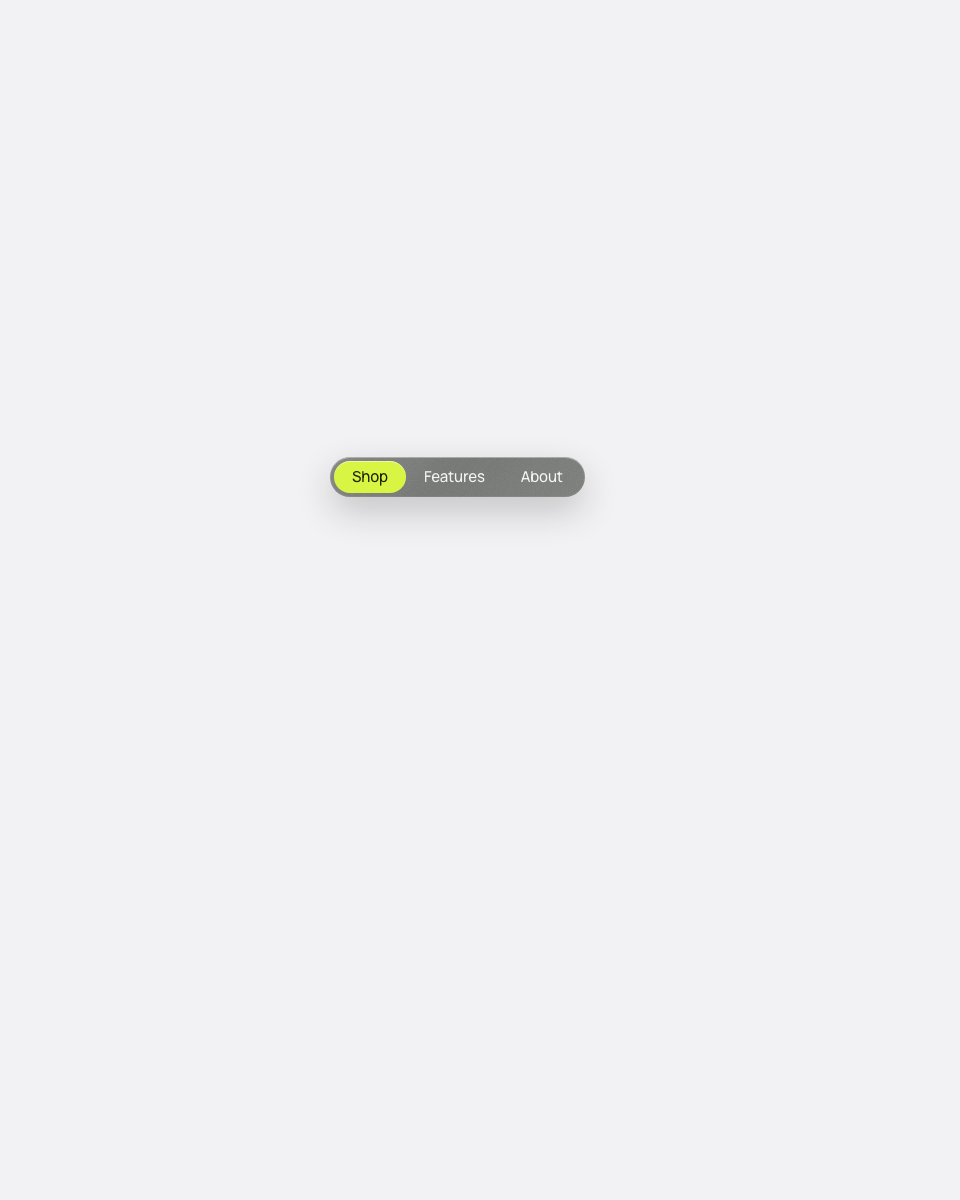
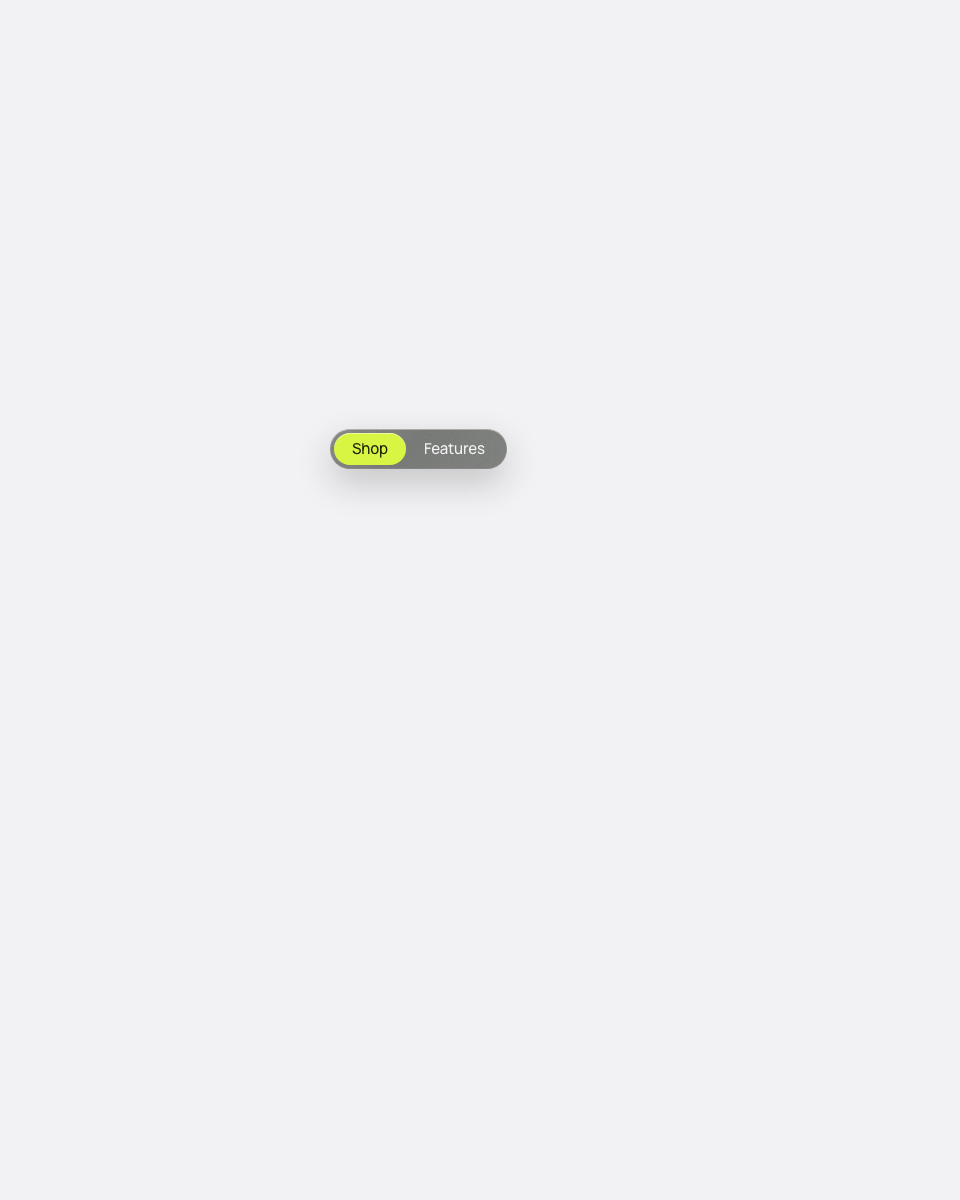
feat: Glass Tab Menu — a media card under Features, a sliding row-hover pill, About dropped

Changed region(s): [[0.3438, 0.3392, 0.625, 0.4317]]

diff --git a/components/navigation/glass-tab-menu/glass-tab-menu.tsx b/components/navigation/glass-tab-menu/glass-tab-menu.tsx
@@ -13,18 +13,25 @@ function cn(...inputs: ClassValue[]) {
 
 export type GlassTabMenuProps = {
   /** Which tab wears the pill at first. Default "shop". */
-  defaultTab?: "shop" | "features" | "about";
-  /** Walk the tabs on their own, panel open, until someone clicks (the gallery card sets it). */
+  defaultTab?: "shop" | "features";
+  /** A photo for the Features card. Without one, a dark glossy placeholder is drawn. */
+  featureImage?: string;
+  /** Alt text for that photo. */
+  featureAlt?: string;
+  /** Walk the tabs on their own, panel open, until someone takes over (the gallery card sets it). */
   loop?: boolean;
   className?: string;
 };
 
-type Tab = { id: "shop" | "features" | "about"; label: string; eyebrow: string; items: string[] };
+type TabId = "shop" | "features";
+
+type Tab =
+  | { id: TabId; label: string; eyebrow: string; kind: "list"; items: string[] }
+  | { id: TabId; label: string; eyebrow: string; kind: "media" };
 
 const TABS: Tab[] = [
-  { id: "shop", label: "Shop", eyebrow: "By Activity", items: ["Lifestyle", "Commute", "Active", "Walking", "Everyday"] },
-  { id: "features", label: "Features", eyebrow: "Why it works", items: ["Waterproof", "Breathable", "Featherlight", "Grip", "Warmth"] },
-  { id: "about", label: "About", eyebrow: "The studio", items: ["Story", "Materials", "Journal", "Stockists", "Contact"] },
+  { id: "shop", label: "Shop", eyebrow: "By Activity", kind: "list", items: ["Lifestyle", "Commute", "Active", "Walking", "Everyday"] },
+  { id: "features", label: "Features", eyebrow: "100% Waterproof", kind: "media" },
 ];
 
 const SKIN = {
@@ -40,7 +47,9 @@ const FONT = "var(--font-manrope, Manrope), Manrope, ui-sans-serif, system-ui, s
 
 const BAR_H = 40;
 const PANEL_W = 300;
-const PANEL_H = 236;
+const PANEL_PAD = 20;
+const PANEL_H_LIST = 236;
+const PANEL_H_MEDIA = 292;
 const PANEL_GAP = 10;
 const PANEL_RADIUS = 18;
 const ROW_H = 34;
@@ -50,6 +59,11 @@ const CLOSE_DELAY = 140;
 const LOOP_EVERY = 2600;
 
 const bell = [0.45, 0, 0.55, 1] as const;
+/** The springs the pills slide on. */
+const SLIDE = { type: "spring", stiffness: 420, damping: 34 } as const;
+const PUSH = { type: "spring", stiffness: 380, damping: 32 } as const;
+
+const panelHeight = (tab: Tab) => (tab.kind === "media" ? PANEL_H_MEDIA : PANEL_H_LIST);
 
 /**
  * Dark smoky glass. Reads as glass on a flat host too — a diagonal sheen, a
@@ -63,6 +77,12 @@ const GLASS: React.CSSProperties = {
   WebkitBackdropFilter: "blur(24px) saturate(160%)",
   boxShadow:
     "inset 0 1px 0 rgba(255,255,255,0.3), inset 0 0 0 1px rgba(255,255,255,0.07), 0 14px 36px rgba(0,0,0,0.2)",
+};
+
+/** Lighter glass laid on the dark glass: the row-hover pill and the arrow. */
+const GLASS_LIFT: React.CSSProperties = {
+  background: "rgba(255,255,255,0.14)",
+  boxShadow: "inset 0 1px 0 rgba(255,255,255,0.22)",
 };
 
 /** A fine static grain over one pane of glass. Nothing here ever animates. */
@@ -86,21 +106,120 @@ function Grain() {
   );
 }
 
-export function GlassTabMenu({ defaultTab = "shop", loop = false, className }: GlassTabMenuProps) {
+function Eyebrow({ children }: { children: React.ReactNode }) {
+  return (
+    <span className="text-[9px] font-medium tracking-[0.02em]" style={{ color: SKIN.textMuted }}>
+      {children}
+    </span>
+  );
+}
+
+type ListPanelProps = { items: string[]; uid: string; onInteract: () => void };
+
+/**
+ * The list: whichever row the pointer or focus is on gets a lighter glass
+ * pill that slides between rows, with a round arrow at its end, while the
+ * other rows dim. Hover state lives here so it resets when the panel swaps.
+ */
+function ListPanel({ items, uid, onInteract }: ListPanelProps) {
+  const [hovered, setHovered] = React.useState<string | null>(null);
+  return (
+    <ul
+      className="mt-5 flex-1 overflow-hidden"
+      onPointerLeave={() => setHovered(null)}
+      style={{
+        maskImage: "linear-gradient(to bottom, #000 50%, transparent 100%)",
+        WebkitMaskImage: "linear-gradient(to bottom, #000 50%, transparent 100%)",
+      }}
+    >
+      {items.map((item) => {
+        const isHovered = hovered === item;
+        return (
+          <li key={item} className="relative">
+            {isHovered && (
+              <motion.span
+                aria-hidden="true"
+                layoutId={`${uid}-row`}
+                initial={{ opacity: 0, scale: 0.96 }}
+                animate={{ opacity: 1, scale: 1 }}
+                transition={PUSH}
+                className="absolute -inset-x-2 inset-y-0 rounded-[10px]"
+                style={GLASS_LIFT}
+              />
+            )}
+            <button
+              type="button"
+              onPointerEnter={() => setHovered(item)}
+              onFocus={() => setHovered(item)}
+              onBlur={() => setHovered((h) => (h === item ? null : h))}
+              onClick={onInteract}
+              className="relative flex w-full items-center justify-between rounded-md text-left text-[15px] font-medium outline-none focus-visible:ring-2 focus-visible:ring-white/60"
+              style={{
+                height: ROW_H,
+                color: SKIN.text,
+                opacity: hovered === null ? 0.85 : isHovered ? 1 : 0.45,
+                transition: "opacity 220ms ease",
+              }}
+            >
+              <span>{item}</span>
+              <motion.span
+                aria-hidden="true"
+                initial={false}
+                animate={{ opacity: isHovered ? 1 : 0, x: isHovered ? 0 : -6, scale: isHovered ? 1 : 0.8 }}
+                transition={{ duration: 0.22, ease: bell }}
+                className="flex h-7 w-7 items-center justify-center rounded-full"
+                style={{ background: "rgba(255,255,255,0.18)" }}
+              >
+                <svg width={14} height={14} viewBox="0 0 14 14">
+                  <path d="M2.5 7h9M7.5 3l4 4-4 4" fill="none" stroke="#fff" strokeWidth={1.6} strokeLinecap="round" strokeLinejoin="round" />
+                </svg>
+              </motion.span>
+            </button>
+          </li>
+        );
+      })}
+    </ul>
+  );
+}
+
+type MediaPanelProps = { image?: string; alt?: string };
+
+/** The Features card: a real photo when given one, otherwise a dark, wet-looking gloss. */
+function MediaPanel({ image, alt }: MediaPanelProps) {
+  return (
+    <div
+      className="relative mt-4 flex-1 overflow-hidden rounded-[12px]"
+      style={{
+        background:
+          "radial-gradient(120% 80% at 28% 18%, rgba(255,255,255,0.2), transparent 55%), linear-gradient(200deg, transparent 62%, rgba(215,245,66,0.32) 100%), linear-gradient(160deg, #3A3D3A 0%, #151614 55%, #0D0E0C 100%)",
+        boxShadow: "inset 0 1px 0 rgba(255,255,255,0.16)",
+      }}
+    >
+      {image ? (
+        // A plain <img>: this file is meant to be copied out of Next.js.
+        // eslint-disable-next-line @next/next/no-img-element
+        <img src={image} alt={alt ?? ""} className="absolute inset-0 h-full w-full object-cover" />
+      ) : null}
+      <Grain />
+    </div>
+  );
+}
+
+export function GlassTabMenu({ defaultTab = "shop", featureImage, featureAlt, loop = false, className }: GlassTabMenuProps) {
   const uid = React.useId().replace(/[^a-zA-Z0-9_-]/g, "");
-  const [active, setActive] = React.useState<Tab["id"]>(defaultTab);
+  const [active, setActive] = React.useState<TabId>(defaultTab);
   /** Which tab's panel is showing. Hover and focus drive this; clicks drive `active`. */
-  const [open, setOpen] = React.useState<Tab["id"] | null>(loop ? defaultTab : null);
+  const [open, setOpen] = React.useState<TabId | null>(loop ? defaultTab : null);
   const [interacted, setInteracted] = React.useState(false);
   const activeRef = React.useRef(active);
   React.useEffect(() => {
     activeRef.current = active;
   }, [active]);
-  const tabRefs = React.useRef<Partial<Record<Tab["id"], HTMLButtonElement | null>>>({});
+  const tabRefs = React.useRef<Partial<Record<TabId, HTMLButtonElement | null>>>({});
   const panelRef = React.useRef<HTMLDivElement>(null);
   const closeTimer = React.useRef(0);
 
-  const show = React.useCallback((id: Tab["id"]) => {
+  const show = React.useCallback((id: TabId) => {
     window.clearTimeout(closeTimer.current);
     setOpen(id);
   }, []);
@@ -125,20 +244,22 @@ export function GlassTabMenu({ defaultTab = "shop", loop = false, className }: G
     return () => window.clearInterval(id);
   }, [loop, interacted]);
 
-  const activate = (id: Tab["id"]) => {
+  const takeOver = React.useCallback(() => setInteracted(true), []);
+
+  const activate = (id: TabId) => {
     setInteracted(true);
     setActive(id);
     show(id);
     tabRefs.current[id]?.focus();
   };
 
-  const onTabKey = (e: React.KeyboardEvent<HTMLButtonElement>, id: Tab["id"]) => {
+  const onTabKey = (e: React.KeyboardEvent<HTMLButtonElement>, id: TabId) => {
     const i = TABS.findIndex((t) => t.id === id);
     const moves: Record<string, () => void> = {
       "ArrowRight": () => activate(TABS[(i + 1) % TABS.length].id),
       "ArrowLeft": () => activate(TABS[(i - 1 + TABS.length) % TABS.length].id),
-      Home: () => activate(TABS[0].id),
-      End: () => activate(TABS[TABS.length - 1].id),
+      "Home": () => activate(TABS[0].id),
+      "End": () => activate(TABS[TABS.length - 1].id),
       "ArrowDown": () => panelRef.current?.querySelector("button")?.focus(),
     };
     const run = moves[e.key];
@@ -149,6 +270,7 @@ export function GlassTabMenu({ defaultTab = "shop", loop = false, className }: G
 
   const onClusterKey = (e: React.KeyboardEvent<HTMLDivElement>) => {
     if (e.key !== "Escape") return;
+    window.clearTimeout(closeTimer.current);
     setOpen(null);
     tabRefs.current[active]?.focus();
   };
@@ -159,6 +281,7 @@ export function GlassTabMenu({ defaultTab = "shop", loop = false, className }: G
   };
 
   const shown = TABS.find((t) => t.id === open) ?? null;
+  const tallest = Math.max(...TABS.map(panelHeight));
 
   return (
     <MotionConfig reducedMotion="user">
@@ -169,7 +292,7 @@ export function GlassTabMenu({ defaultTab = "shop", loop = false, className }: G
         {/* The cluster: bar, gap, panel. Pointer and focus leaving it fold the panel. */}
         <div
           className="relative"
-          style={{ width: PANEL_W, height: BAR_H + PANEL_GAP + PANEL_H }}
+          style={{ width: PANEL_W, height: BAR_H + PANEL_GAP + tallest }}
           onPointerLeave={hide}
           onBlur={onClusterBlur}
           onKeyDown={onClusterKey}
@@ -199,7 +322,10 @@ export function GlassTabMenu({ defaultTab = "shop", loop = false, className }: G
                   onFocus={() => show(tab.id)}
                   onClick={() => activate(tab.id)}
                   onKeyDown={(e) => onTabKey(e, tab.id)}
-                  className="relative z-10 rounded-full px-[18px] text-[15px] font-medium outline-none transition-colors duration-200 focus-visible:ring-2 focus-visible:ring-white/60"
+                  className={cn(
+                    "relative z-10 rounded-full px-[18px] text-[15px] font-medium outline-none transition-colors duration-200 focus-visible:ring-2 focus-visible:ring-white/60",
+                    !isActive && "hover:bg-white/10"
+                  )}
                   style={{ height: BAR_H - 8, color: isActive ? SKIN.limeInk : SKIN.text }}
                 >
                   {isActive && (
@@ -207,7 +333,7 @@ export function GlassTabMenu({ defaultTab = "shop", loop = false, className }: G
                       layoutId={`${uid}-pill`}
                       className="absolute inset-0 -z-10 rounded-full"
                       style={{ background: SKIN.lime, boxShadow: "inset 0 1px 0 rgba(255,255,255,0.5)" }}
-                      transition={{ type: "spring", stiffness: 420, damping: 34 }}
+                      transition={SLIDE}
                     />
                   )}
                   {tab.label}
@@ -223,7 +349,7 @@ export function GlassTabMenu({ defaultTab = "shop", loop = false, className }: G
             aria-labelledby={shown ? `${uid}-tab-${shown.id}` : undefined}
             aria-hidden={!shown}
             initial={false}
-            animate={{ height: shown ? PANEL_H : 0, opacity: shown ? 1 : 0, y: shown ? 0 : -8 }}
+            animate={{ height: shown ? panelHeight(shown) : 0, opacity: shown ? 1 : 0, y: shown ? 0 : -8 }}
             transition={{ duration: shown ? 0.5 : 0.28, ease: bell }}
             className="absolute left-0 overflow-hidden"
             style={{
@@ -241,31 +367,15 @@ export function GlassTabMenu({ defaultTab = "shop", loop = false, className }: G
                 initial={{ opacity: 0, y: 6 }}
                 animate={{ opacity: 1, y: 0 }}
                 transition={{ duration: 0.32, ease: bell }}
-                className="relative flex h-full flex-col px-5 pt-4"
+                className="relative flex h-full flex-col pt-4"
+                style={{ paddingLeft: PANEL_PAD, paddingRight: PANEL_PAD, paddingBottom: shown.kind === "media" ? PANEL_PAD : 0 }}
               >
-                <span className="text-[9px] font-medium tracking-[0.02em]" style={{ color: SKIN.textMuted }}>
-                  {shown.eyebrow}
-                </span>
-                <ul
-                  className="mt-5 flex-1 overflow-hidden"
-                  style={{
-                    maskImage: "linear-gradient(to bottom, #000 50%, transparent 100%)",
-                    WebkitMaskImage: "linear-gradient(to bottom, #000 50%, transparent 100%)",
-                  }}
-                >
-                  {shown.items.map((item) => (
-                    <li key={item}>
-                      <button
-                        type="button"
-                        onClick={() => setInteracted(true)}
-                        className="flex w-full items-center text-left text-[15px] font-medium opacity-85 outline-none transition-opacity duration-150 hover:opacity-100 focus-visible:opacity-100 focus-visible:ring-2 focus-visible:ring-white/60 rounded-md"
-                        style={{ height: ROW_H, color: SKIN.text }}
-                      >
-                        {item}
-                      </button>
-                    </li>
-                  ))}
-                </ul>
+                <Eyebrow>{shown.eyebrow}</Eyebrow>
+                {shown.kind === "list" ? (
+                  <ListPanel items={shown.items} uid={uid} onInteract={takeOver} />
+                ) : (
+                  <MediaPanel image={featureImage} alt={featureAlt} />
+                )}
               </motion.div>
             )}
           </motion.div>

diff --git a/src/lib/component-registry.ts b/src/lib/component-registry.ts
@@ -321,7 +321,7 @@ export const componentRegistry = {
     index: "016",
     title: "Glass Tab Menu",
     description:
-      "A capsule tab bar in dark smoky glass — a lime pill slides between Shop, Features, and About on a spring, and hovering a tab unfolds a frosted panel beneath it whose list fades out at the bottom edge",
+      "A capsule tab bar in dark smoky glass — a lime pill slides between Shop and Features on a spring; hovering Shop unfolds a frosted list whose hovered row gets a lighter glass pill and an arrow that slide from row to row, and hovering Features unfolds a glossy media card",
     category: "Navigation",
     status: "NEW",
     statusClassName: "bg-[var(--jitter-orange)]/12 text-[var(--jitter-orange)]",

diff --git a/README.md b/README.md
@@ -44,7 +44,7 @@ files and their licence requirements out explicitly.
 | <img src="public/previews/coffee-gauge.png" width="160"> | **Coffee Gauge** — three hand-drawn cups that pour and drain as liquid gauges; open the card and log what you actually drank | Data | — | [`coffee-gauge.tsx`](components/data/coffee-gauge/coffee-gauge.tsx) |
 | <img src="public/previews/halftone-bloom.png" width="160"> | **Halftone Bloom** — a progress indicator stippled entirely in dots: a moon that lights left to right like a terminator, new to full | Data | — | [`halftone-bloom.tsx`](components/data/halftone-bloom/halftone-bloom.tsx) |
 | <img src="public/previews/blossom-light.png" width="160"> | **Blossom Light** — a square of wall whose light is the controls in the middle of it — leaf shadow dimmed and lifted by a line-by-line brightness pill, toned from cool to amber, its leaf shadow stirring in a wind | Control | — | [`blossom-light.tsx`](components/control/blossom-light/blossom-light.tsx) |
-| <img src="public/previews/glass-tab-menu.png" width="160"> | **Glass Tab Menu** — a smoky glass tab bar whose lime pill slides between tabs, with a frosted dropdown panel that unfolds on hover and fades out its last rows | Navigation | — | [`glass-tab-menu.tsx`](components/navigation/glass-tab-menu/glass-tab-menu.tsx) |
+| <img src="public/previews/glass-tab-menu.png" width="160"> | **Glass Tab Menu** — a smoky glass tab bar whose lime pill slides between Shop and Features; Shop unfolds a frosted list with a row-hover pill that slides between rows, Features unfolds a glossy media card | Navigation | — | [`glass-tab-menu.tsx`](components/navigation/glass-tab-menu/glass-tab-menu.tsx) |
 
 ## Using a component
 

diff --git a/components/navigation/glass-tab-menu/README.md b/components/navigation/glass-tab-menu/README.md
@@ -1,6 +1,6 @@
 # Glass Tab Menu
 
-A capsule tab bar in dark smoky glass — a lime pill slides between Shop, Features, and About on a spring, and hovering a tab unfolds a frosted panel beneath it whose list fades out at the bottom edge
+A capsule tab bar in dark smoky glass — a lime pill slides between Shop and Features on a spring; hovering Shop unfolds a frosted list whose hovered row gets a lighter glass pill and an arrow that slide from row to row, and hovering Features unfolds a glossy media card
 
 ![Glass Tab Menu preview](https://raw.githubusercontent.com/michellesijiama/atomicmotion-ui/main/public/previews/glass-tab-menu.png)
 
